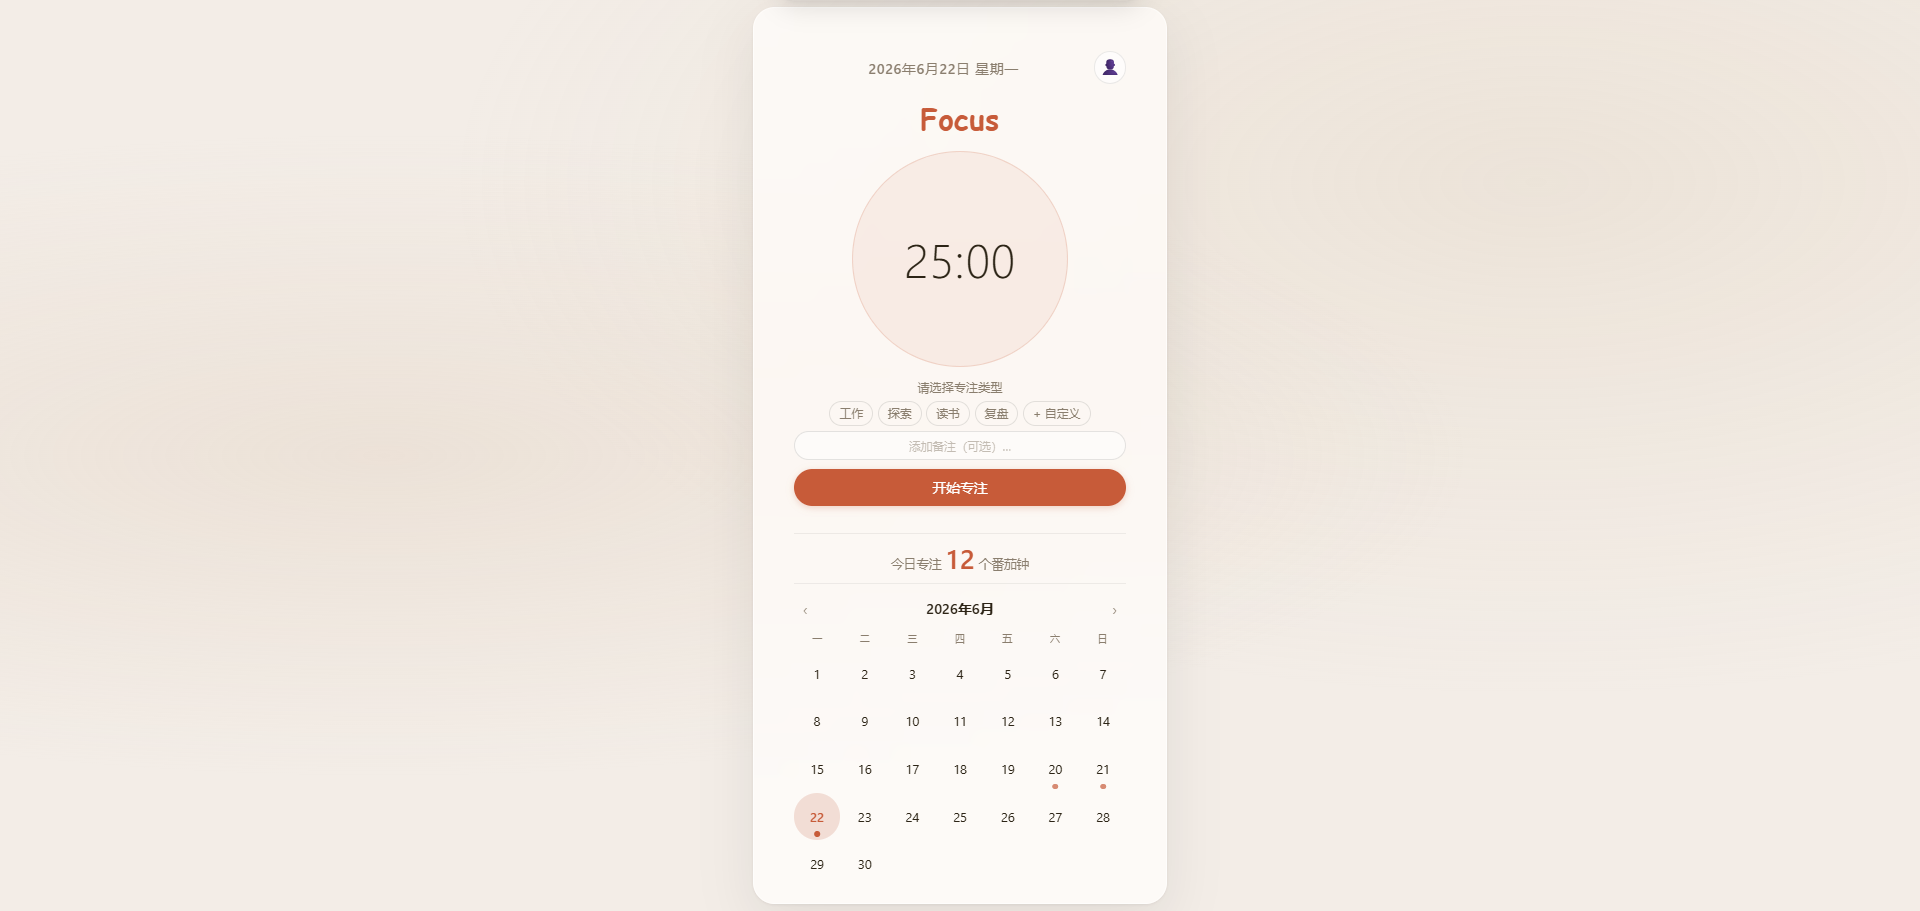
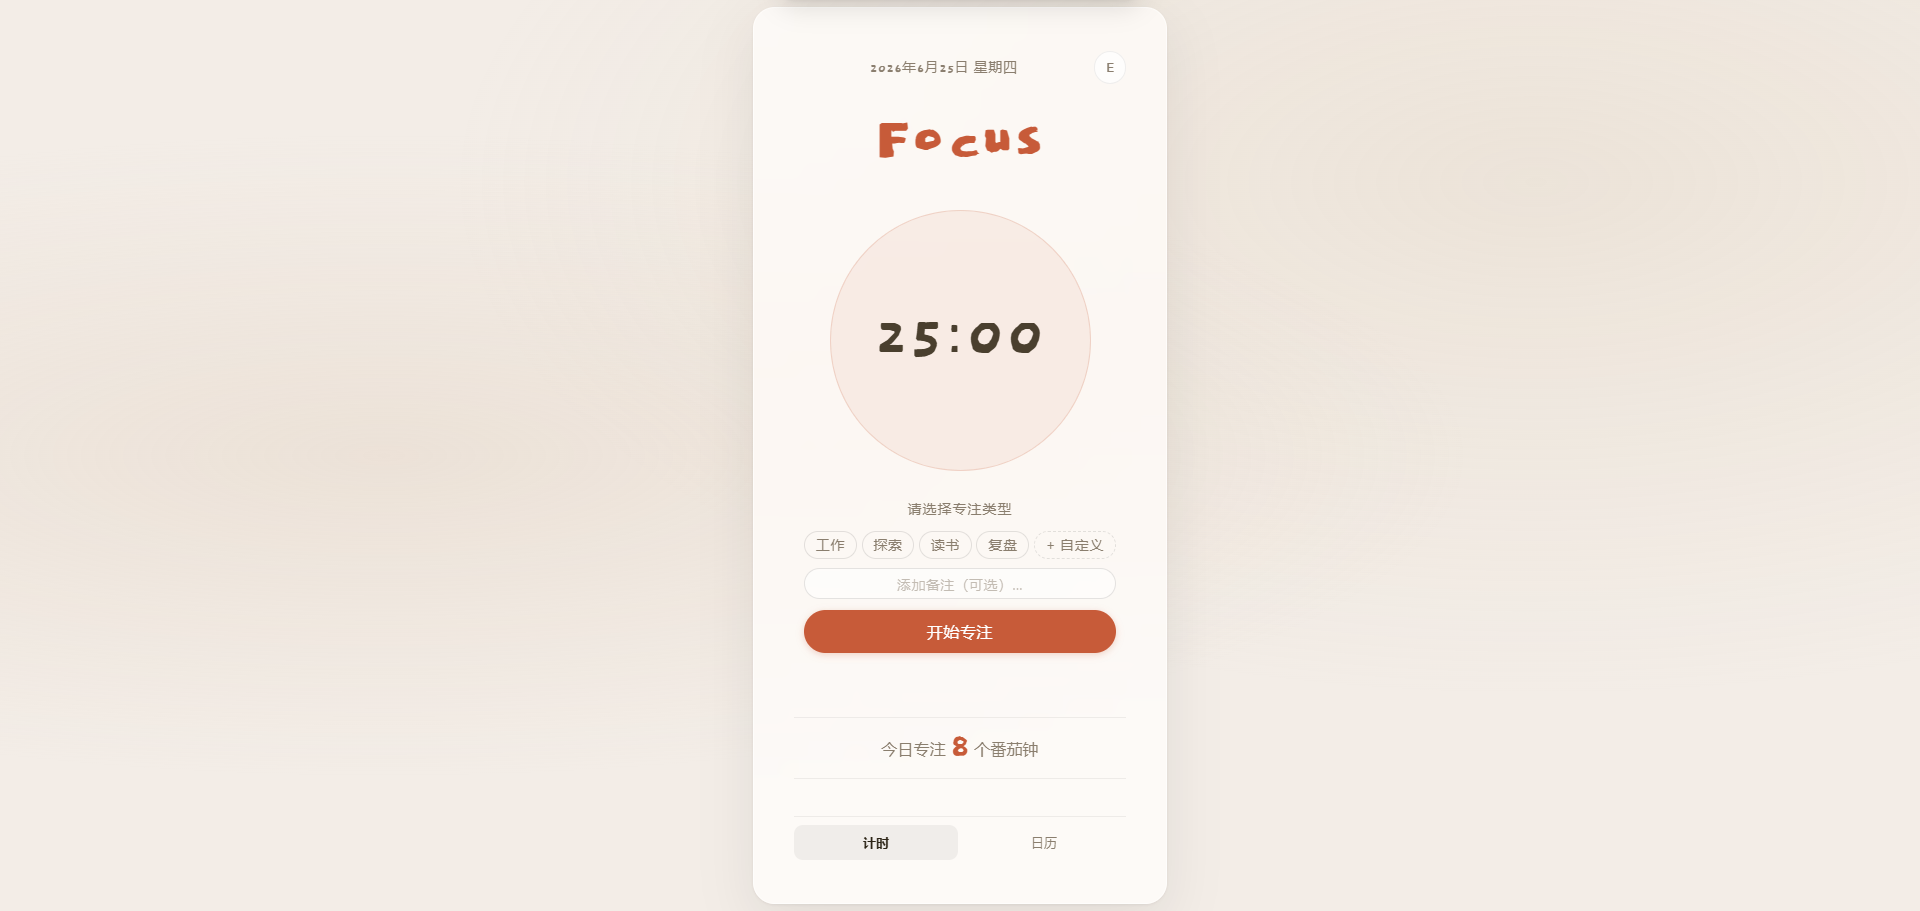
chore: 修改README.md及项目截图

diff --git a/index.html b/index.html
@@ -70,7 +70,7 @@
             </div>
             <div class="cal-stat-item">
                 <span class="cal-stat-value" id="cal-stat-avg-pomos">0</span>
-                <span class="cal-stat-label">日均番茄钟</span>
+                <span class="cal-stat-label">本月日均番茄钟</span>
             </div>
         </div>
 

diff --git a/README.md b/README.md
@@ -2,28 +2,29 @@
 
 # 🍅 番茄时钟
 
-一个简洁的番茄工作法计时器，帮助我们进入专注状态，25分钟专注+5分钟休息，循环往复进入心流。
+一个简洁的番茄工作法计时器，帮助我们更快进入专注状态，25分钟专注+5分钟休息，循环往复，轻松唤醒深度心流。
 
 ## ✨ 功能
 
 - **番茄计时** — 25 分钟专注 + 5 分钟休息，经典番茄工作法
 - **断点恢复** — 计时状态多重持久化，页面刷新或意外关闭后计时继续进行
-- **任务分类** — 自定义专注类型（学习、工作、阅读等）
+- **任务分类** — 自定义专注类型（学习、工作、阅读等），支持看板/弹窗统一管理
 - **备注记录** — 每个番茄钟可添加备注，记录具体专注事项
-- **日历视图** — 查看每日专注数据，分早中晚时段统计专注番茄钟数
-- **云端同步** — 注册登录后，多设备同步专注数据（未登录也可使用，仅本地存储）
+- **日历视图** — 洞察月度宏观数据（专注天数、日均番茄钟）；细化每日数据，按四大时段（凌晨动态显示）精准统计
+- **云端同步** — 注册登录后，多设备同步专注数据，支持账号名称管理；未登录也可使用，仅本地存储
 
 ## 🖼️ 截图
 
 ![计时器：开始前](./screenshots/timer1.png)
 ![计时器：专注中](./screenshots/timer2.png)
-![日历：查看专注数据](./screenshots/calendar.png)
+![日历：查看专注数据](./screenshots/calendar1.png)
+![日历：查看专注数据](./screenshots/calendar2.png)
 
 ## 🌐 在线地址
 
 https://tomato-focus-x.netlify.app/
 
-## 🚀 本地运行
+## 🏠 本地运行
 
 1. 将 `index.html`、`script.js`、`style.css` 三个文件下载到本地同一文件夹
 2. 双击 `index.html` 即可在浏览器中使用，无需安装任何依赖
@@ -42,6 +43,7 @@ https://tomato-focus-x.netlify.app/
 - [Supabase](https://supabase.com) — 数据库和用户认证
 - [Netlify](https://netlify.com) — 部署托管
 
+
 ---
 
-**祝你专注其中，享受番茄时光！** 🍅
+保持专注，享受心流！🍅 🍅

diff --git a/README_English.md b/README_English.md
@@ -2,28 +2,29 @@
 
 # 🍅 Tomato Focus
 
-A clean and simple Pomodoro timer to help you stay focused. 25 minutes focused + 5 minutes rest, cycling through to achieve flow state.
+A clean and simple Pomodoro timer to help us get into the zone faster. Cycle through 25-minute focus sessions and 5-minute breaks to effortlessly achieve a flow state.
 
 ## ✨ Features
 
 - **Pomodoro Timer** — Classic 25-minute focus sessions + 5-minute breaks
 - **Smart Resume** — Multiple persistence layers ensure your timer continues even after page refresh or accidental closure
-- **Task Categories** — Customize focus types (Study, Work, Reading, etc.)
+- **Task Categories** — Customize focus types (Study, Work, Reading, etc.) and manage them all in one place
 - **Notes & Tracking** — Add notes to each session to record what you worked on
-- **Calendar View** — Track daily focus data with time-of-day statistics (morning/afternoon/evening)
-- **Cloud Sync** — Sign up and login to sync focus data across devices (local-only storage without login)
+- **Calendar View** — Track monthly overview (active days, daily averages) and dive into daily stats broken down by 6-hour intervals, with dynamic shifts for early hours
+- **Cloud Sync** — Sign in to sync focus data across multiple devices and manage your profile name. It works offline too, with data stored securely on your local device
 
 ## 🖼️ Screenshots
 
 ![Timer: Before Start](./screenshots/timer1.png)
 ![Timer: Focusing](./screenshots/timer2.png)
-![Calendar: Focus Data](./screenshots/calendar.png)
+![Calendar: Focus Data](./screenshots/calendar1.png)
+![Calendar: Focus Data](./screenshots/calendar2.png)
 
 ## 🌐 Live Demo
 
 https://tomato-focus-x.netlify.app/
 
-## 🚀 Local Usage
+## 🏠 Local Usage
 
 1. Download `index.html`, `script.js`, and `style.css` to the same folder
 2. Double-click `index.html` to use it in your browser — no dependencies required
@@ -44,4 +45,4 @@ https://tomato-focus-x.netlify.app/
 
 ---
 
-**Stay focused, enjoy your Pomodoro! 🍅**
+**Stay focused, Savor every flow.🍅**